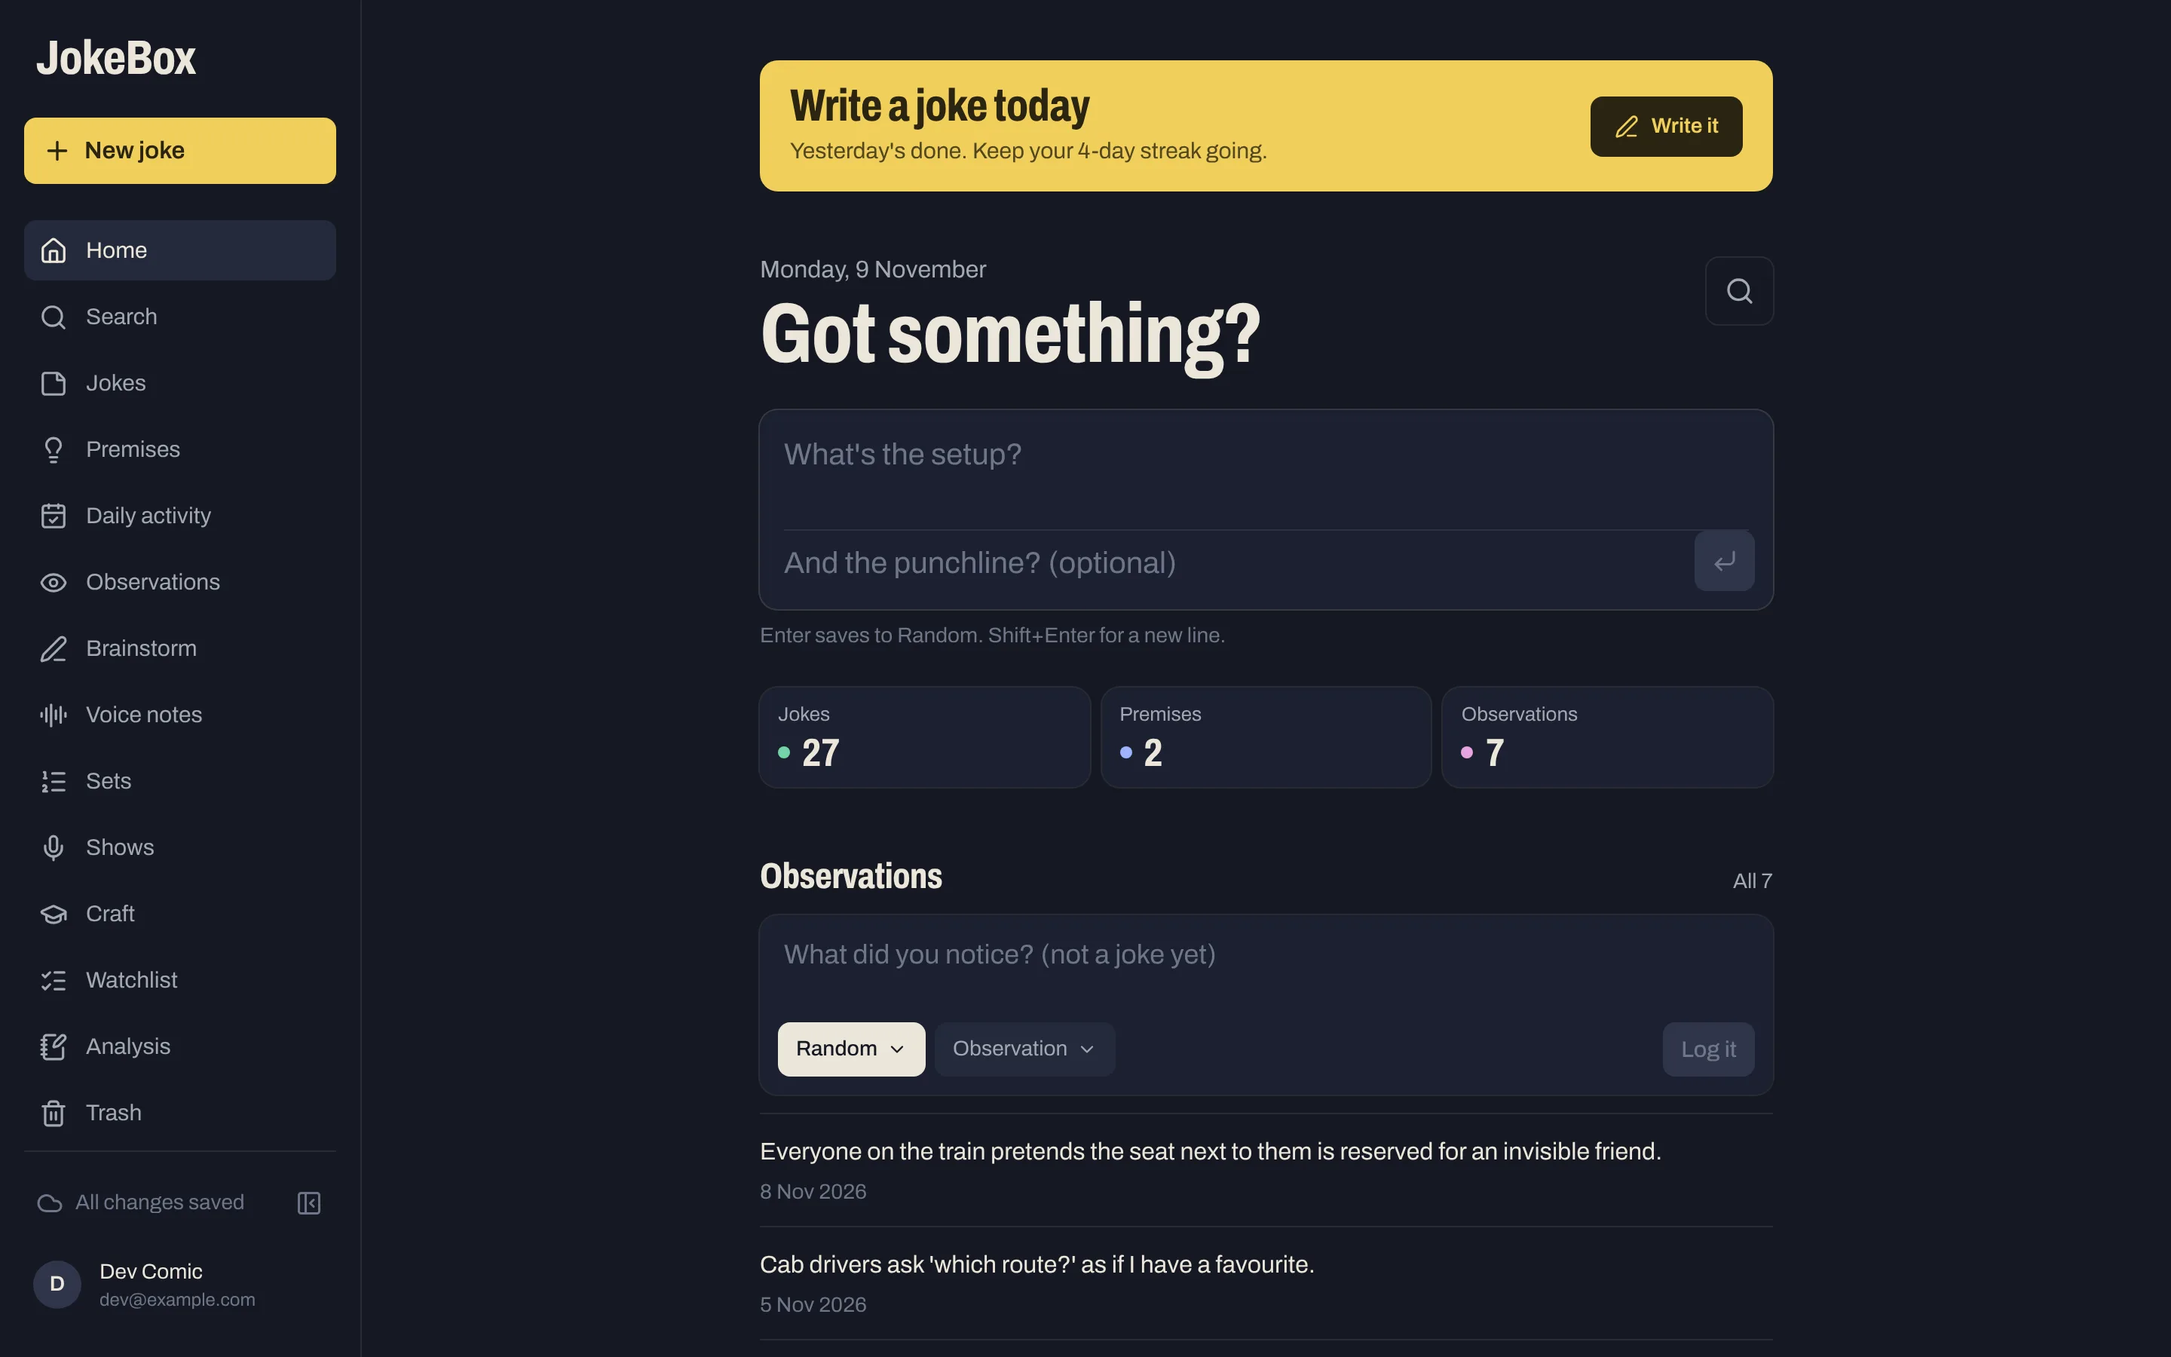
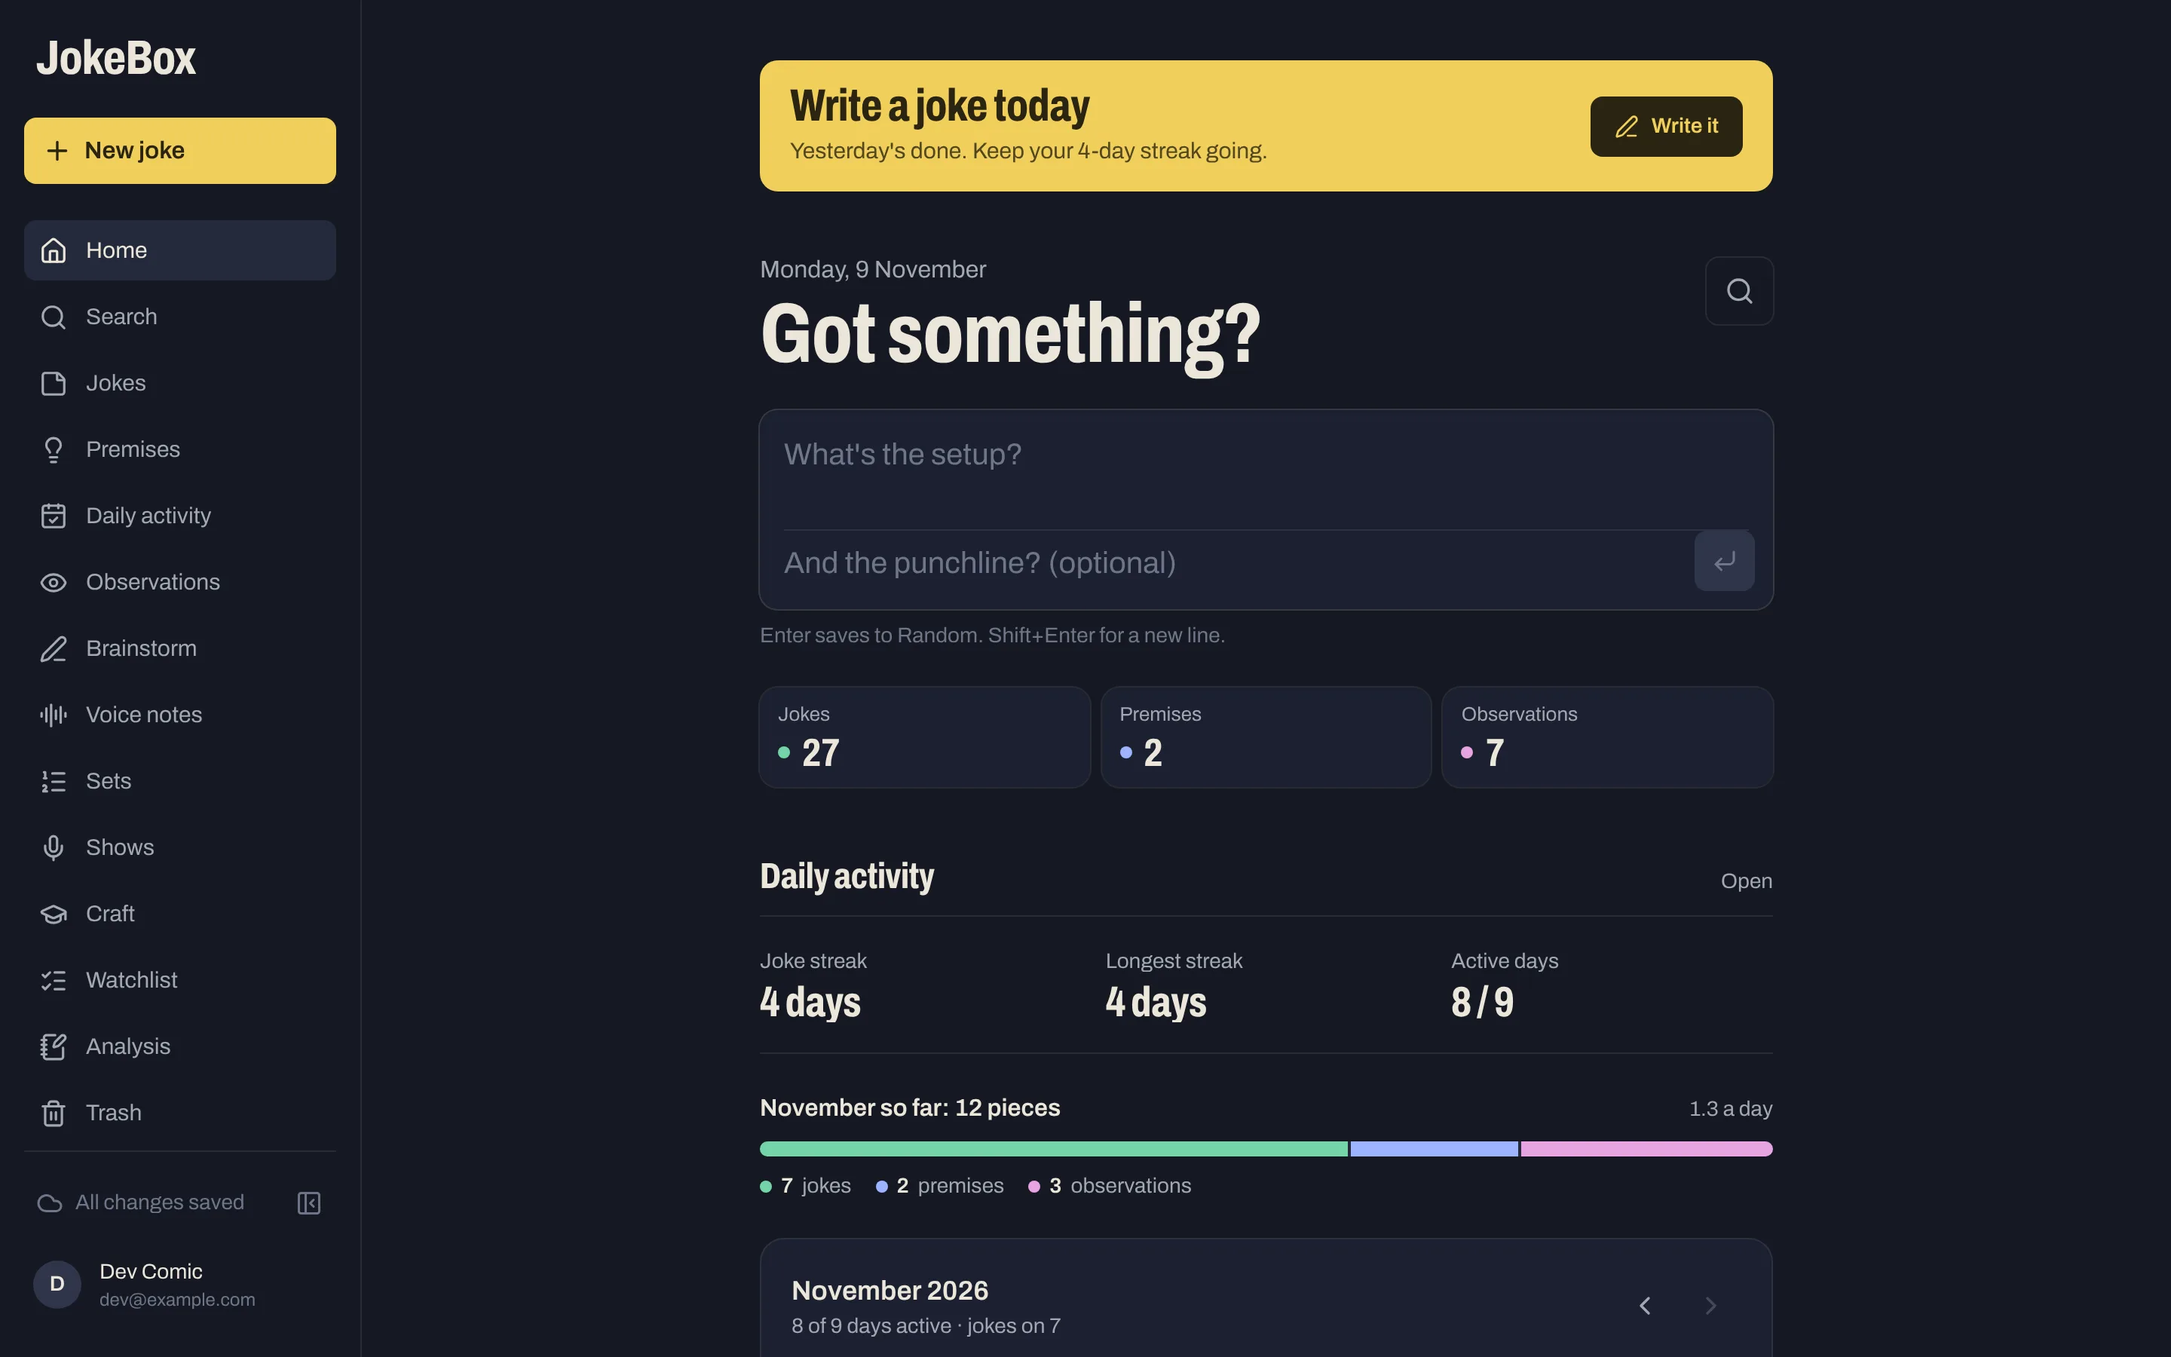
feat(home): Daily activity on Home, observation box only
Home now shows Daily activity right under the Jokes / Premises / Observations
tiles and above the observation box: the streaks, the month's total, the
calendar and the tapped day's counts, with Open for the full page. The
recent-observations list leaves Home; the box to log one stays.

ActivityPanel holds the shared part, so Daily activity and Home can't drift.
On Home a tapped day shows counts only; Daily activity still lists the pieces.

Claude-Session: https://claude.ai/code/session_019rjoQsTGccsQFfBXuL7Bjj

diff --git a/web/src/features/daily/DailyPage.tsx b/web/src/features/daily/DailyPage.tsx
@@ -1,29 +1,19 @@
 /**
  * Daily activity: everything you wrote, day by day. The joke nudge and today's joke box stay on
  * top (only jokes keep the streak), then the streaks, the month's total split by kind, and a
- * calendar where every day shows how much you wrote and of which kind. Tap a day to see its counts
- * and the pieces themselves.
+ * calendar where every day shows how much you wrote and of which kind (see ActivityPanel, which
+ * Home shows too). Tap a day to see its counts and the pieces themselves.
  */
-import { useState } from 'react'
 import { PageHead } from '../../components/ui/pieces'
 import { QuickCapture } from '../today/QuickCapture'
-import { dayOf, monthSummary } from './activity'
+import { ActivityPanel } from './ActivityPanel'
 import { DailyBanner } from './DailyBanner'
-import { DayDetail } from './DayDetail'
-import { MonthCalendar } from './MonthCalendar'
-import { MonthMix } from './MonthMix'
-import { useActivity } from './useActivity'
+import { useHabit } from './useHabit'
 
 const focusBox = () => document.getElementById('quick-capture')?.focus()
-const days = (n: number) => `${n} day${n === 1 ? '' : 's'}`
 
 export function DailyPage() {
-  const { activity, today, habit } = useActivity()
-  const [month, setMonth] = useState(today.slice(0, 7))
-  const [selected, setSelected] = useState<string | null>(today)
-  const shown = monthSummary(activity, month, today)
-  const thisMonth = monthSummary(activity, today.slice(0, 7), today)
-
+  const { habit } = useHabit()
   return (
     <div className="mx-auto max-w-2xl space-y-6">
       <PageHead title="Daily activity" />
@@ -34,22 +24,7 @@ export function DailyPage() {
         <QuickCapture />
       </div>
 
-      <dl className="grid grid-cols-3 gap-4 border-y border-rule py-5">
-        {[
-          ['Joke streak', days(habit.current)],
-          ['Longest streak', days(habit.longest)],
-          ['Active days', `${thisMonth.active} / ${thisMonth.sofar}`],
-        ].map(([label, value]) => (
-          <div key={label} className="min-w-0">
-            <dt className="text-sm text-dim">{label}</dt>
-            <dd className="headline mt-1 truncate text-[28px]">{value}</dd>
-          </div>
-        ))}
-      </dl>
-
-      <MonthMix month={month} today={today} summary={shown} />
-      <MonthCalendar month={month} onMonth={setMonth} activity={activity} summary={shown} today={today} selected={selected} onSelect={setSelected} />
-      {selected && <DayDetail date={selected} today={today} day={dayOf(activity, selected)} />}
+      <ActivityPanel lists />
     </div>
   )
 }

diff --git a/web/src/features/daily/ActivityPanel.tsx b/web/src/features/daily/ActivityPanel.tsx
@@ -1,0 +1,41 @@
+/**
+ * Daily activity, the part both screens share: the streaks, the month's total split by kind, the
+ * calendar, and the day you tapped (today to begin with). The Daily activity page lists what you
+ * wrote that day; Home shows only the day's counts, so the rest of Home stays in reach.
+ */
+import { useState } from 'react'
+import { dayOf, monthSummary } from './activity'
+import { DayDetail } from './DayDetail'
+import { MonthCalendar } from './MonthCalendar'
+import { MonthMix } from './MonthMix'
+import { useActivity } from './useActivity'
+
+const days = (n: number) => `${n} day${n === 1 ? '' : 's'}`
+
+export function ActivityPanel({ lists }: { lists: boolean }) {
+  const { activity, today, habit } = useActivity()
+  const [month, setMonth] = useState(today.slice(0, 7))
+  const [selected, setSelected] = useState<string | null>(today)
+  const shown = monthSummary(activity, month, today)
+  const thisMonth = monthSummary(activity, today.slice(0, 7), today)
+
+  return (
+    <div className="space-y-6">
+      <dl className="grid grid-cols-3 gap-4 border-y border-rule py-5">
+        {[
+          ['Joke streak', days(habit.current)],
+          ['Longest streak', days(habit.longest)],
+          ['Active days', `${thisMonth.active} / ${thisMonth.sofar}`],
+        ].map(([label, value]) => (
+          <div key={label} className="min-w-0">
+            <dt className="text-sm text-dim">{label}</dt>
+            <dd className="headline mt-1 truncate text-[28px]">{value}</dd>
+          </div>
+        ))}
+      </dl>
+      <MonthMix month={month} today={today} summary={shown} />
+      <MonthCalendar month={month} onMonth={setMonth} activity={activity} summary={shown} today={today} selected={selected} onSelect={setSelected} />
+      {selected && <DayDetail date={selected} today={today} day={dayOf(activity, selected)} lists={lists} />}
+    </div>
+  )
+}

diff --git a/web/src/features/daily/DayDetail.tsx b/web/src/features/daily/DayDetail.tsx
@@ -1,7 +1,7 @@
 /**
  * The day you tapped on the calendar: its three counts up top (jokes, premises, observations),
- * then what you wrote, grouped by kind, each linking to its page. On a phone this is where the
- * counts live, since a day's box only has room for dots.
+ * then (with `lists`) what you wrote, grouped by kind, each linking to its page. On a phone this is
+ * where the counts live, since a day's box only has room for dots. Home shows the counts alone.
  */
 import { Link } from 'react-router'
 import { formatDate } from '../../lib/time'
@@ -24,7 +24,7 @@ function rows(day: DayActivity): Record<Kind, Row[]> {
 
 const label = (k: Kind) => KIND_META[k].many[0].toUpperCase() + KIND_META[k].many.slice(1)
 
-export function DayDetail({ date, today, day }: { date: string; today: string; day: DayActivity }) {
+export function DayDetail({ date, today, day, lists: showLists = true }: { date: string; today: string; day: DayActivity; lists?: boolean }) {
   const counts = countsOf(day)
   const total = totalOf(counts)
   const lists = rows(day)
@@ -51,7 +51,7 @@ export function DayDetail({ date, today, day }: { date: string; today: string; d
 
       {total === 0 && <p className="mt-4 text-dim">Nothing written {isToday ? 'yet today' : 'that day'}.</p>}
 
-      {KINDS.filter((k) => counts[k]).map((k) => (
+      {showLists && KINDS.filter((k) => counts[k]).map((k) => (
         <div key={k} className="mt-5">
           <h3 className="mb-1 flex items-center gap-2 text-sm font-semibold text-dim">
             <span className={`size-2 rounded-full ${KIND_META[k].dot}`} />{label(k)}

diff --git a/web/src/features/today/TodayObservations.tsx b/web/src/features/today/TodayObservations.tsx
@@ -1,33 +1,17 @@
-/** Today's observation log: a box for what you noticed, and the last few you logged. */
+/** Today's observation box: log what you noticed. The observations themselves live under Ideas. */
 import { Link } from 'react-router'
 import { useObservations } from '../../api/notebook'
 import { SectionHead } from '../../components/ui/pieces'
-import { formatDate } from '../../lib/time'
 import { ObservationBox } from '../observations/ObservationBox'
-
-const RECENT = 3
 
 export function TodayObservations() {
   const { data: observations = [] } = useObservations()
-  const recent = [...observations].sort((a, b) => b.created_at.localeCompare(a.created_at)).slice(0, RECENT)
   return (
     <section className="mt-12">
       <SectionHead title="Observations">
         <Link to="/observations" className="text-sm text-dim hover:text-paper">{observations.length ? `All ${observations.length}` : 'Open'}</Link>
       </SectionHead>
       <ObservationBox />
-      {recent.length > 0 && (
-        <ul className="mt-3 divide-y divide-rule border-y border-rule">
-          {recent.map((o) => (
-            <li key={o.id}>
-              <Link to={`/observations/${o.id}`} className="block py-3 leading-relaxed hover:text-tape">
-                <span className="line-clamp-2">{o.text}</span>
-                <span className="mt-1 block text-sm text-faint">{formatDate(o.created_at)}</span>
-              </Link>
-            </li>
-          ))}
-        </ul>
-      )}
     </section>
   )
 }

diff --git a/web/src/features/today/TodayPage.tsx b/web/src/features/today/TodayPage.tsx
@@ -1,4 +1,4 @@
-/** Today: the daily joke nudge, then capture, shortcuts to jokes, premises and observations, then observations, voice notes, brainstorming, craft (your path and a lesson box), study (watchlist, analysis, links), your topic folders, what's coming up, and how the last show went. */
+/** Today: the daily joke nudge, then capture, shortcuts to jokes, premises and observations, daily activity (streaks, the month and its calendar), the observation box, voice notes, brainstorming, craft (your path and a lesson box), study (watchlist, analysis, links), your topic folders, what's coming up, and how the last show went. */
 import { Play, Search } from 'lucide-react'
 import { useState } from 'react'
 import { Link } from 'react-router'
@@ -14,6 +14,7 @@ import { draftItems, optionalSeconds, totalSeconds } from '../sets/setlistMath'
 import { InstallHint } from './InstallHint'
 import { LibraryTiles } from './LibraryTiles'
 import { QuickCapture } from './QuickCapture'
+import { TodayActivity } from './TodayActivity'
 import { TodayBrainstorm } from './TodayBrainstorm'
 import { TodayCraft } from './TodayCraft'
 import { TodayObservations } from './TodayObservations'
@@ -50,6 +51,7 @@ export function TodayPage() {
       </div>
       <QuickCapture />
       <LibraryTiles />
+      <TodayActivity />
       <TodayObservations />
       <TodayVoice />
       <TodayBrainstorm />

diff --git a/web/src/features/today/TodayActivity.tsx b/web/src/features/today/TodayActivity.tsx
@@ -1,0 +1,15 @@
+/** Daily activity on Home, under the shortcuts: the streaks, the month, the calendar and the day you tap. */
+import { Link } from 'react-router'
+import { SectionHead } from '../../components/ui/pieces'
+import { ActivityPanel } from '../daily/ActivityPanel'
+
+export function TodayActivity() {
+  return (
+    <section className="mt-12">
+      <SectionHead title="Daily activity">
+        <Link to="/daily" className="text-sm text-dim hover:text-paper">Open</Link>
+      </SectionHead>
+      <ActivityPanel lists={false} />
+    </section>
+  )
+}

diff --git a/web/src/features/daily/useActivity.ts b/web/src/features/daily/useActivity.ts
@@ -1,7 +1,7 @@
 /**
  * The Daily activity page's data: the joke habit plus every day's premises and observations, from
- * the cached lists, so the calendar updates the moment you save anything. Home only needs the
- * habit, so it keeps using `useHabit` and doesn't load the other lists.
+ * the cached lists, so the calendar updates the moment you save anything. Used by ActivityPanel,
+ * on Daily activity and Home.
  */
 import { useMemo } from 'react'
 import { useJokes } from '../../api/library'

diff --git a/docs/screens.md b/docs/screens.md
@@ -83,7 +83,8 @@ in IST and the headline **"Got something?"** with a search button beside it (it 
 | Daily joke nudge | `daily/DailyBanner.tsx` | Days since your last new joke: today written, a small green line with your streak; 1 or 2 days, yellow **Write a joke today**; 3 to 7, red **N days without a joke**; over a week, a dark, spooky card (a drifting ghost, a cobweb, a flickering line; still under reduced motion). Waits for the jokes to load so it never flashes the wrong state. Links to Daily activity |
 | Quick capture | `QuickCapture.tsx` | Setup and punchline in one box. Enter saves to Random; Shift+Enter adds a new line |
 | Your material | `LibraryTiles.tsx` | Three tiles, **Jokes**, **Premises** and **Observations**, each with its count and its Daily activity colour; a tap opens that list |
-| Observations | `TodayObservations.tsx` | The observation box and the last few logged |
+| Daily activity | `TodayActivity.tsx`, `daily/ActivityPanel.tsx` | The same streaks, month total, calendar and picked day as [Daily activity](#daily-activity-daily), plus **Open**. A tapped day shows its three counts only; the pieces themselves are listed on Daily activity |
+| Observations | `TodayObservations.tsx` | The observation box and **All N**; the observations themselves are under Ideas |
 | Voice notes | `TodayVoice.tsx` | The same recorder as the Voice screen, plus "All N" |
 | Brainstorm | `TodayBrainstorm.tsx` | Start a session, or pick up the last one |
 | Craft | `TodayCraft.tsx`, `craft/PathLadder.tsx` | **Path:** a small copy of the Craft staircase: the first Path note with tick boxes still open, how many are done, and the next step. When the step names minutes, it shows your most solid material on one topic (Strong and Killer jokes, by runtime) against that target. Below it, a box to save a lesson to one of your areas (chips in their colours) |
@@ -98,7 +99,8 @@ in IST and the headline **"Got something?"** with a search button beside it (it 
 
 [DailyPage.tsx](../web/src/features/daily/DailyPage.tsx), [activity.ts](../web/src/features/daily/activity.ts),
 [dailyMath.ts](../web/src/features/daily/dailyMath.ts), [MonthCalendar.tsx](../web/src/features/daily/MonthCalendar.tsx),
-[MonthMix.tsx](../web/src/features/daily/MonthMix.tsx), [DayDetail.tsx](../web/src/features/daily/DayDetail.tsx).
+[MonthMix.tsx](../web/src/features/daily/MonthMix.tsx), [DayDetail.tsx](../web/src/features/daily/DayDetail.tsx),
+[ActivityPanel.tsx](../web/src/features/daily/ActivityPanel.tsx) (stats to picked day, shared with Home).
 
 Everything you wrote, day by day: jokes, premises and observations. The streak is still the daily
 joke habit: only a new joke keeps it going. A day's activity is read from the created dates (IST)

diff --git a/docs/product.md b/docs/product.md
@@ -62,7 +62,7 @@ own data. Today that is one comedian, but the system works for more than one.
 |---|---|---|
 | **Home** | The daily joke nudge, quick capture, record a voice note, log an observation, start a brainstorm, a search button, study shortcuts, topic folders, next set, last show | `/` |
 | **Search** | One search across everything: jokes, premises, observations, brainstorms (typed words; not handwriting), rewrites, voice notes, sets, shows, Craft, analyses and the watchlist. Works offline, on what the phone already holds | `/search` |
-| **Daily activity** | One new joke a day (today's box, the joke streak; the nudge on Home goes from green to yellow, red and spooky), and a calendar of everything written each day: jokes, premises and observations in their own colours, with the month's total | `/daily` |
+| **Daily activity** | One new joke a day (today's box, the joke streak; the nudge on Home goes from green to yellow, red and spooky), and a calendar of everything written each day: jokes, premises and observations in their own colours, with the month's total. The calendar also sits on Home | `/daily` |
 | **Jokes** | Searchable list with topic, type, status and sort filters; each joke edited in place; CSV export. A List / Map / Web switch shows the same jokes as the Map of joke chains or the Web of premises with their jokes, full screen (and beside the list on a wide screen) | `/jokes`, `/jokes/:id`, `/jokes/map` |
 | **Premises** | The ideas under your jokes ("X is Y, because Z"): each one's take and notes, and every joke resting on it in chain order | `/premises`, `/premises/:id` |
 | **New joke** | The + button: a full sheet with every field, prefilled from where you are. Closing it keeps what you typed for next time. On Premises, Shows and Observations the + makes one of those instead | sheet |

diff --git a/docs/user-flows.md b/docs/user-flows.md
@@ -51,8 +51,9 @@ The journeys JokeBox is built around, step by step. Screen names link to [screen
 3. The nudge turns into a small green line with your streak, and today gets a green dot on the
    calendar. Premises and observations show there too, in their own colours, but only jokes keep
    the streak.
-4. On **Daily activity**, tap any day to see how many jokes, premises and observations you wrote
-   and what they were, or page back through earlier months.
+4. The same calendar sits on Home, under the joke box. Tap any day there to see how many jokes,
+   premises and observations you wrote; on **Daily activity**, tapping a day also lists what they
+   were. Arrows page back through earlier months.
 
 ## 3. Work an observation into a joke or premise
 
